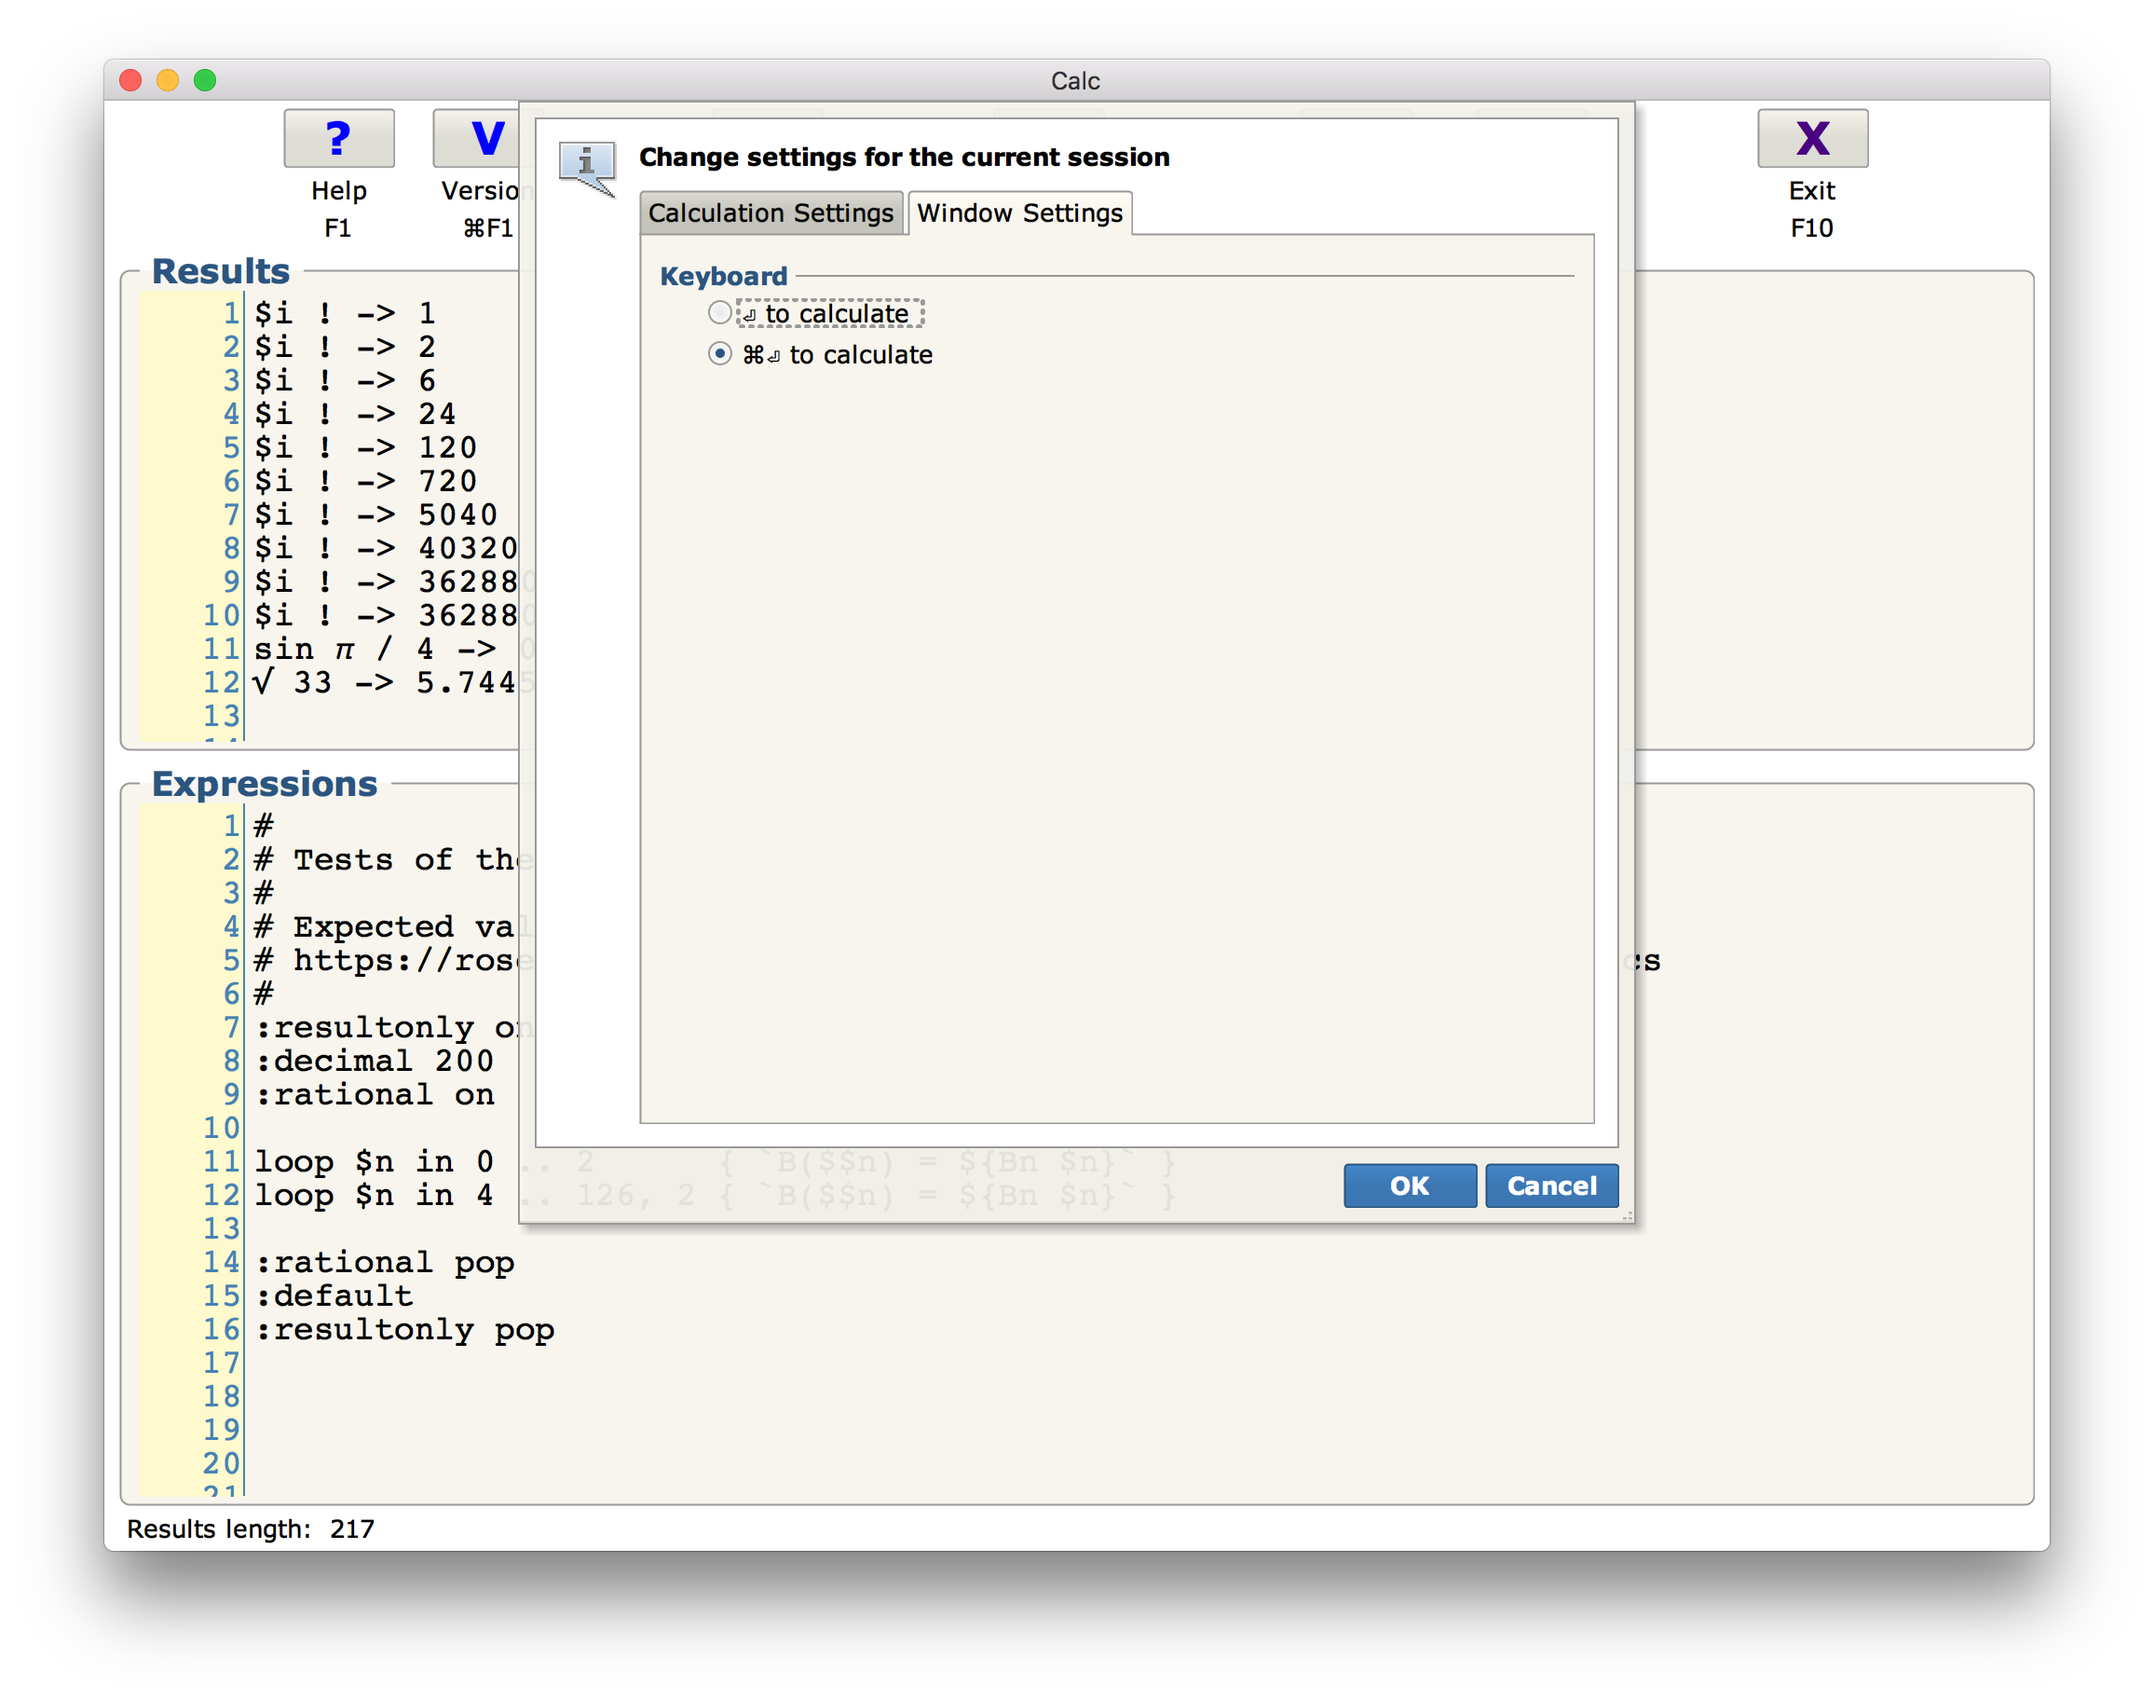
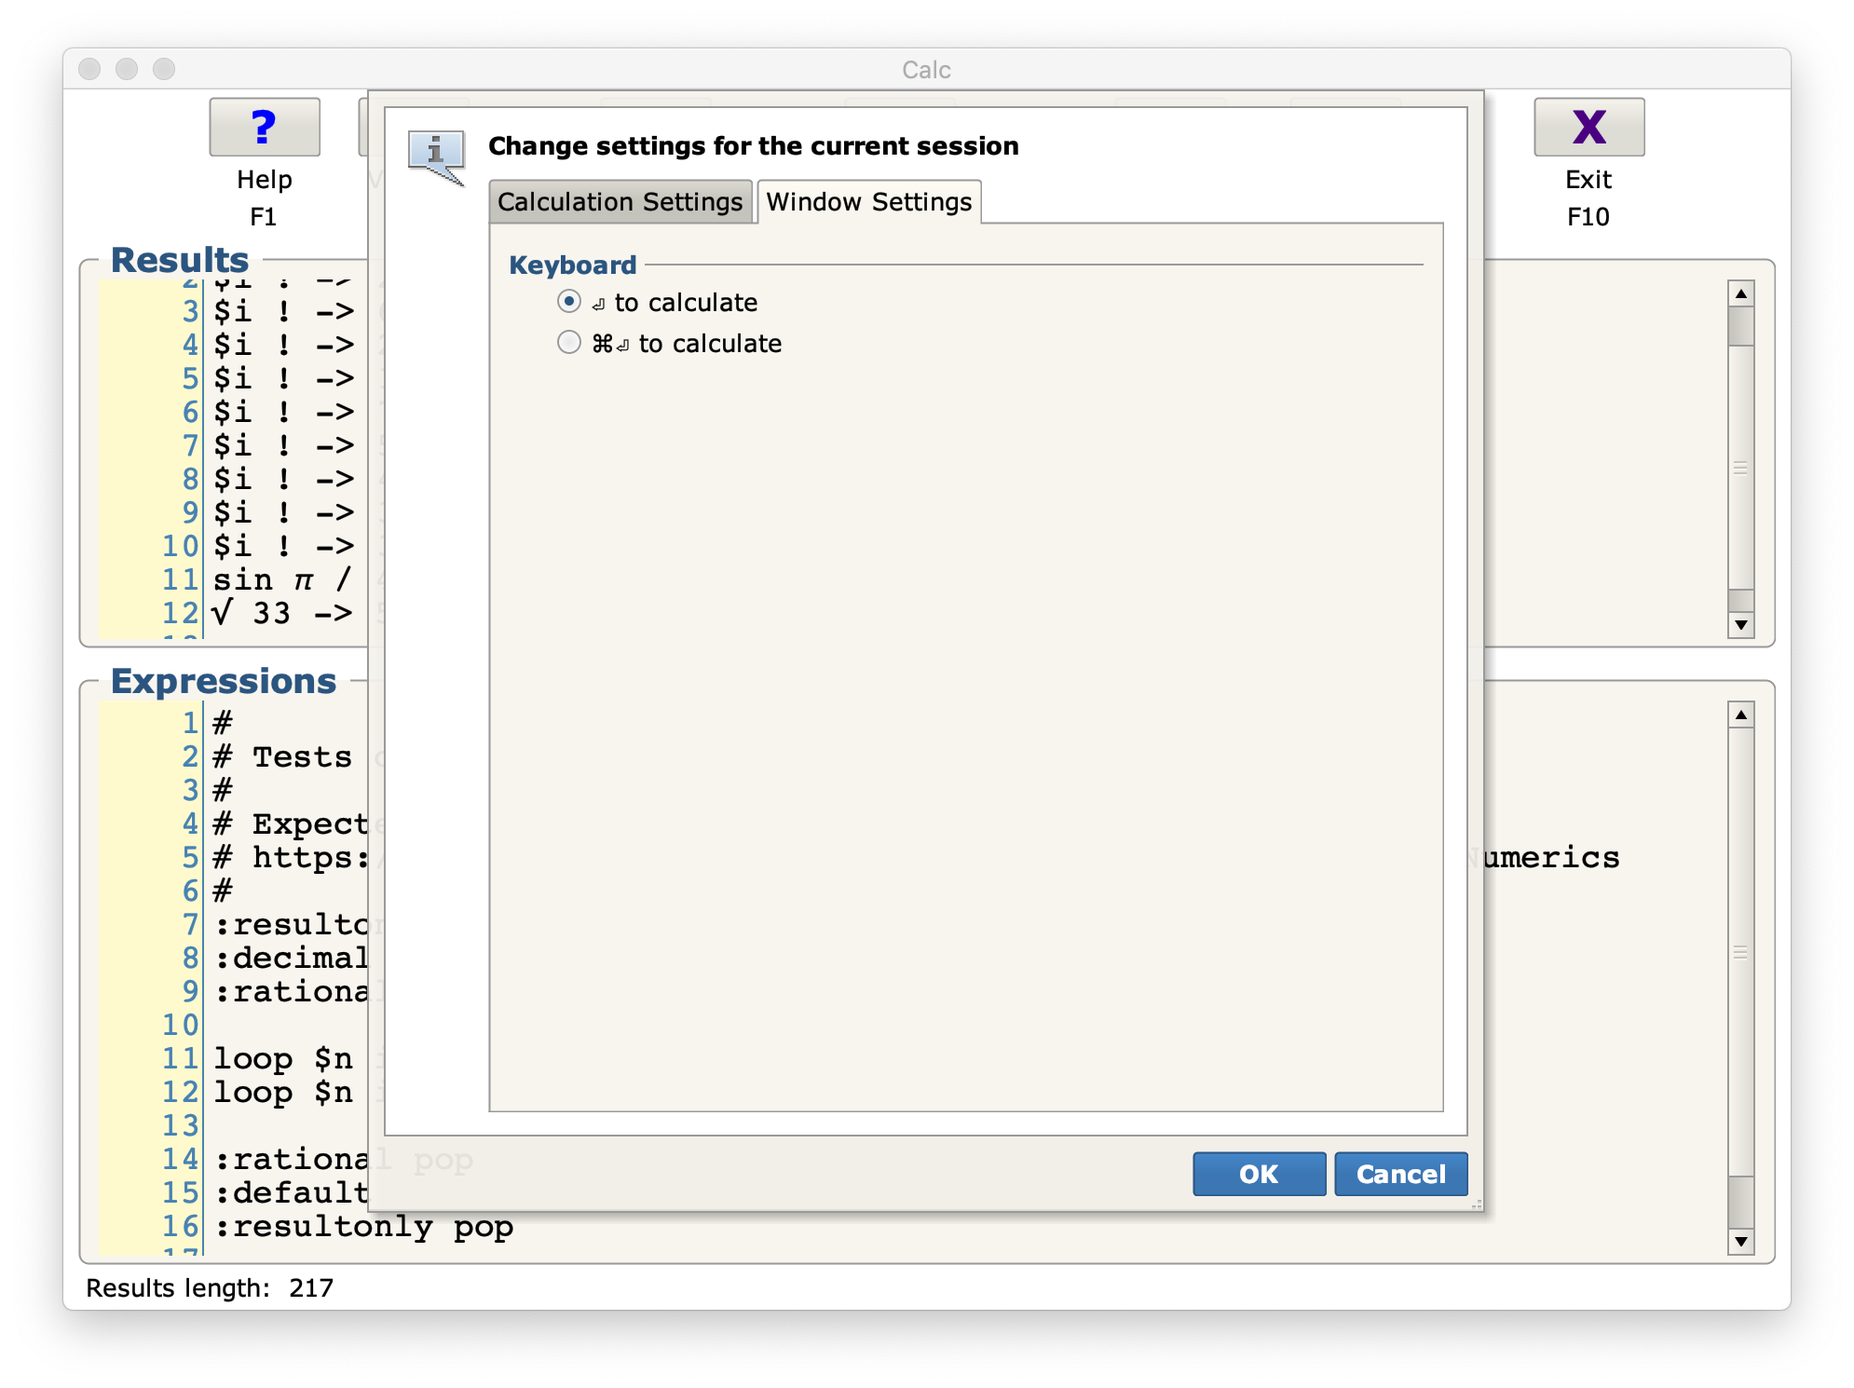
Calc changes: fix bug on Keyboard Settings dialog; space buttons closer; save Open directory; clean up help page.

Changed region(s): [[0.0312, 0.0309, 0.9658, 0.957]]

diff --git a/java/info/rlwhitcomb/calc/Calc.java b/java/info/rlwhitcomb/calc/Calc.java
@@ -148,6 +148,9 @@
  *	08-May-2021 (rlwhitcomb)
  *	    Add option to switch between Cmd-Enter and just Enter to do the calculations.
  *	    Add tabs to the Settings dialog, and put this option into the second one.
+ *	10-May-2021 (rlwhitcomb)
+ *	    Save file directory from Open for next time.
+ *	    Fix bug on Window Settings tab.
  */
 package info.rlwhitcomb.calc;
 
@@ -268,6 +271,7 @@ public class Calc
 	private BXMLSerializer serializer = null;
 
 	private static File inputDirectory = null;
+	private static File rootDirectory = null;
 
 	private Display display;
 
@@ -462,7 +466,10 @@ public class Calc
 	    quietCheck.setSelected(quiet);
 	    resultsCheck.setSelected(resultsOnly);
 
-	    useCmdEnterButton.setSelected(useCmdEnter);
+	    if (useCmdEnter)
+		useCmdEnterButton.setSelected(true);
+	    else
+		useEnterButton.setSelected(true);
 
 	    return focusComponent;
 	}
@@ -809,11 +816,27 @@ public class Calc
 	{
 		@Override
 		public void perform(Component source) {
-		    final FileBrowserSheet browser = new FileBrowserSheet(FileBrowserSheet.Mode.OPEN_MULTIPLE, "./");
+		    if (inputDirectory == null) {
+			if (rootDirectory == null) {
+			    rootDirectory = new File("./");
+			}
+		    }
+		    else if (rootDirectory == null) {
+			rootDirectory = inputDirectory;
+		    }
+		    try {
+			rootDirectory = rootDirectory.getCanonicalFile();
+		    }
+		    catch (IOException ioe) {
+			// just leave root directory as-is
+		    }
+		    final FileBrowserSheet browser =
+			new FileBrowserSheet(FileBrowserSheet.Mode.OPEN_MULTIPLE, rootDirectory.getPath());
 		    browser.open(mainWindow, sheet -> {
 			if (!sheet.getResult())
 			    return;
 			Sequence<File> selectedFiles = browser.getSelectedFiles();
+			rootDirectory = browser.getRootDirectory();
 			StringBuilder buf = new StringBuilder();
 			try {
 			    for (int i = 0; i < selectedFiles.getLength(); i++) {
